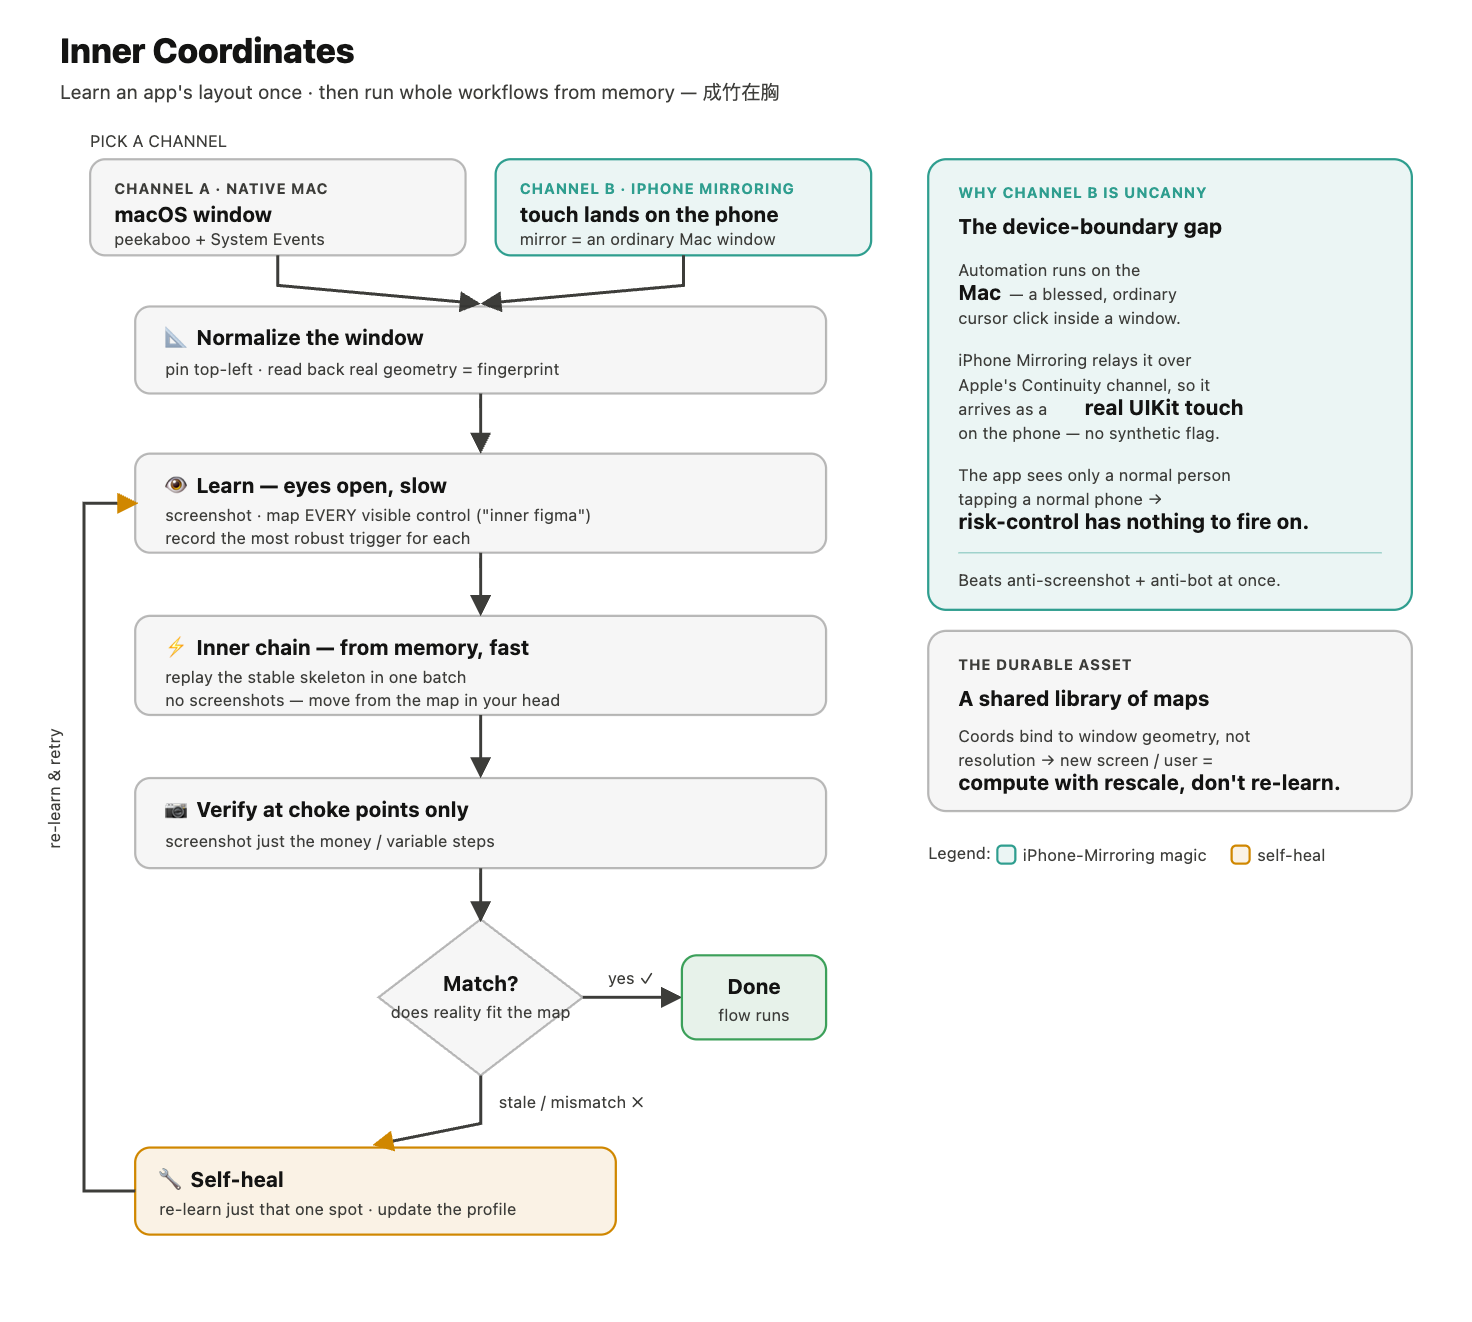
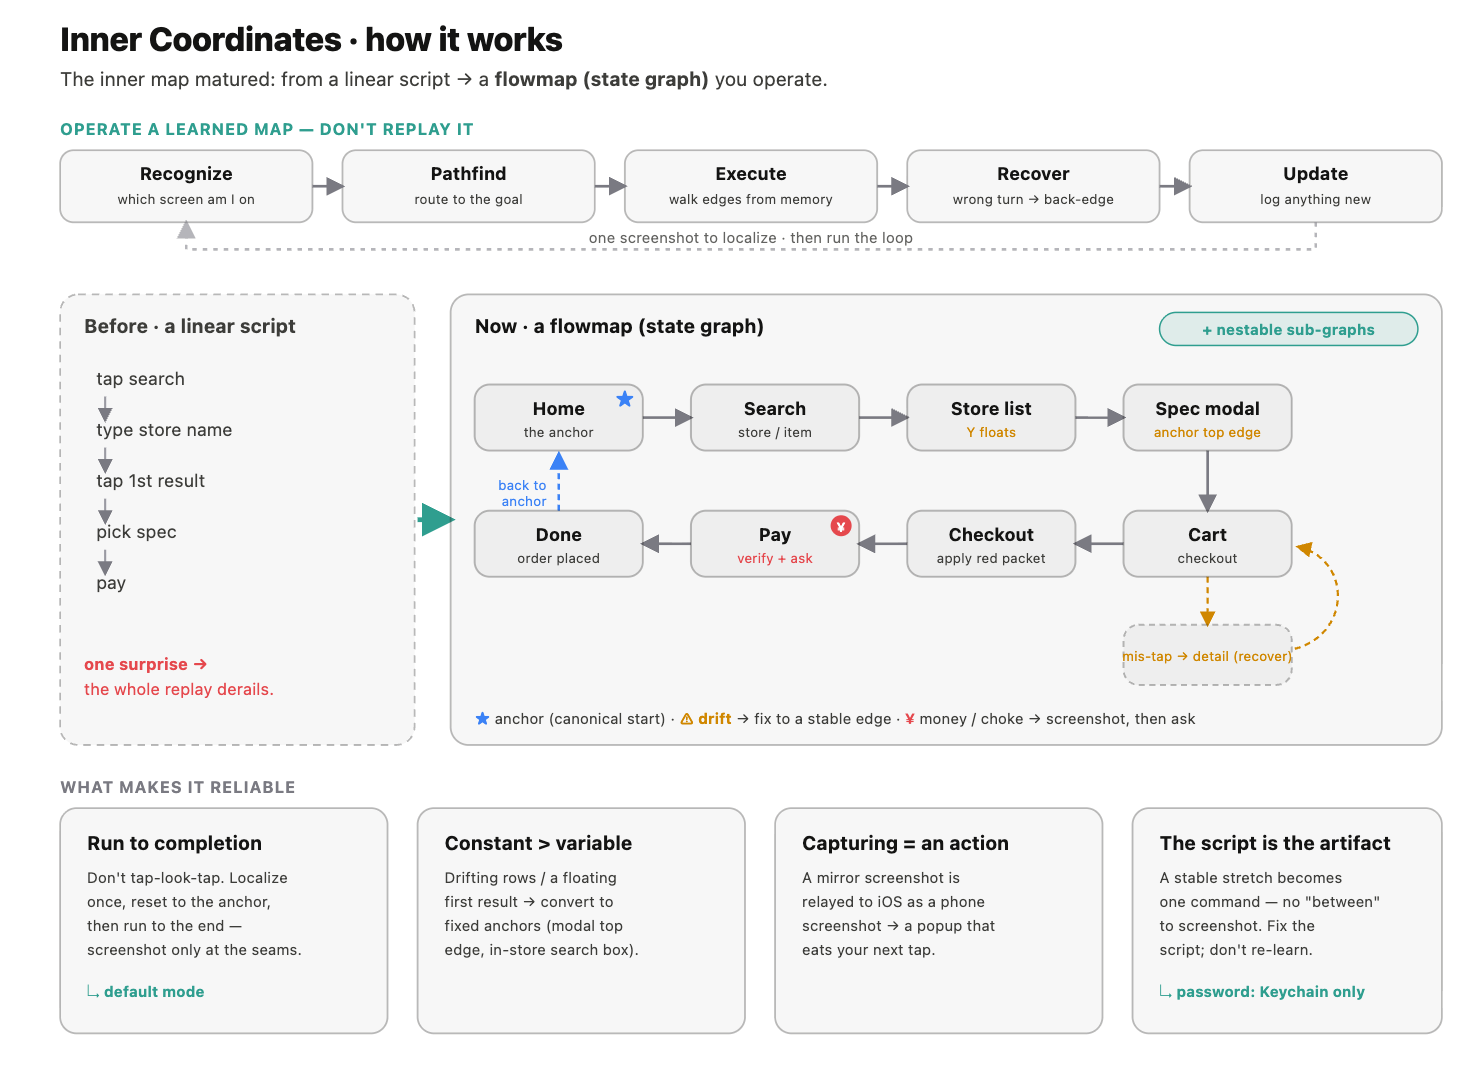
Convert WeChat + NetEase Music to flowmaps; new how-it-works diagram
- profiles/wechat-flowmap.json: WeChat (via iPhone Mirroring) as a state
  graph (list / search / chat / sticker-panel), with the focus-guard rule,
  the spam-Return send trick, and the panel-shifts-the-input-box gotcha.
- profiles/neteasemusic-flowmap.json: NetEase Music (native Mac) as panels;
  playback via shortcuts/menu (zero coords), navigation via sidebar+search.
- _index.json: flowmap-first note (read *-flowmap.json; old coord profiles
  are the source/spec sheet).
- docs/overview.png: replaced with the matured 'how it works' diagram
  (operate-a-flowmap loop + the four reliability principles).

diff --git a/README.md b/README.md
@@ -2,7 +2,7 @@
 
 > Reverse-engineer a clickable map of any macOS or iPhone app **from the outside**, store it, and replay whole workflows **from memory** — learn once, then execute without screenshotting every step.
 
-![Inner Coordinates — pick a channel, normalize, learn once (eyes open), then run the inner chain from memory and verify only at choke points; self-heal when the map goes stale](docs/overview.png)
+![Inner Coordinates · how it works — the inner map matured from a linear script into a flowmap (state graph) you operate: recognize which screen you're on, pathfind to the goal, execute edges from memory, recover from a wrong turn via a back-edge, update the map; one screenshot to localize, then run the loop. Plus the four reliability principles: run to completion, a constant beats a variable, capturing the mirror is itself an action (it triggers a popup that eats your next tap), and the script is the artifact (password lives in the Keychain only).](docs/overview.png)
 
 **Inner Coordinates** is a [Claude Code](https://claude.com/claude-code) skill (plus a small set of standalone shell tools) for reliable **GUI automation of macOS native apps and iOS apps** (through **iPhone Mirroring**) — *including* apps that expose **no accessibility tree** and actively **resist screenshots and automation** (WeChat / 微信, Meituan / 美团, and friends).
 